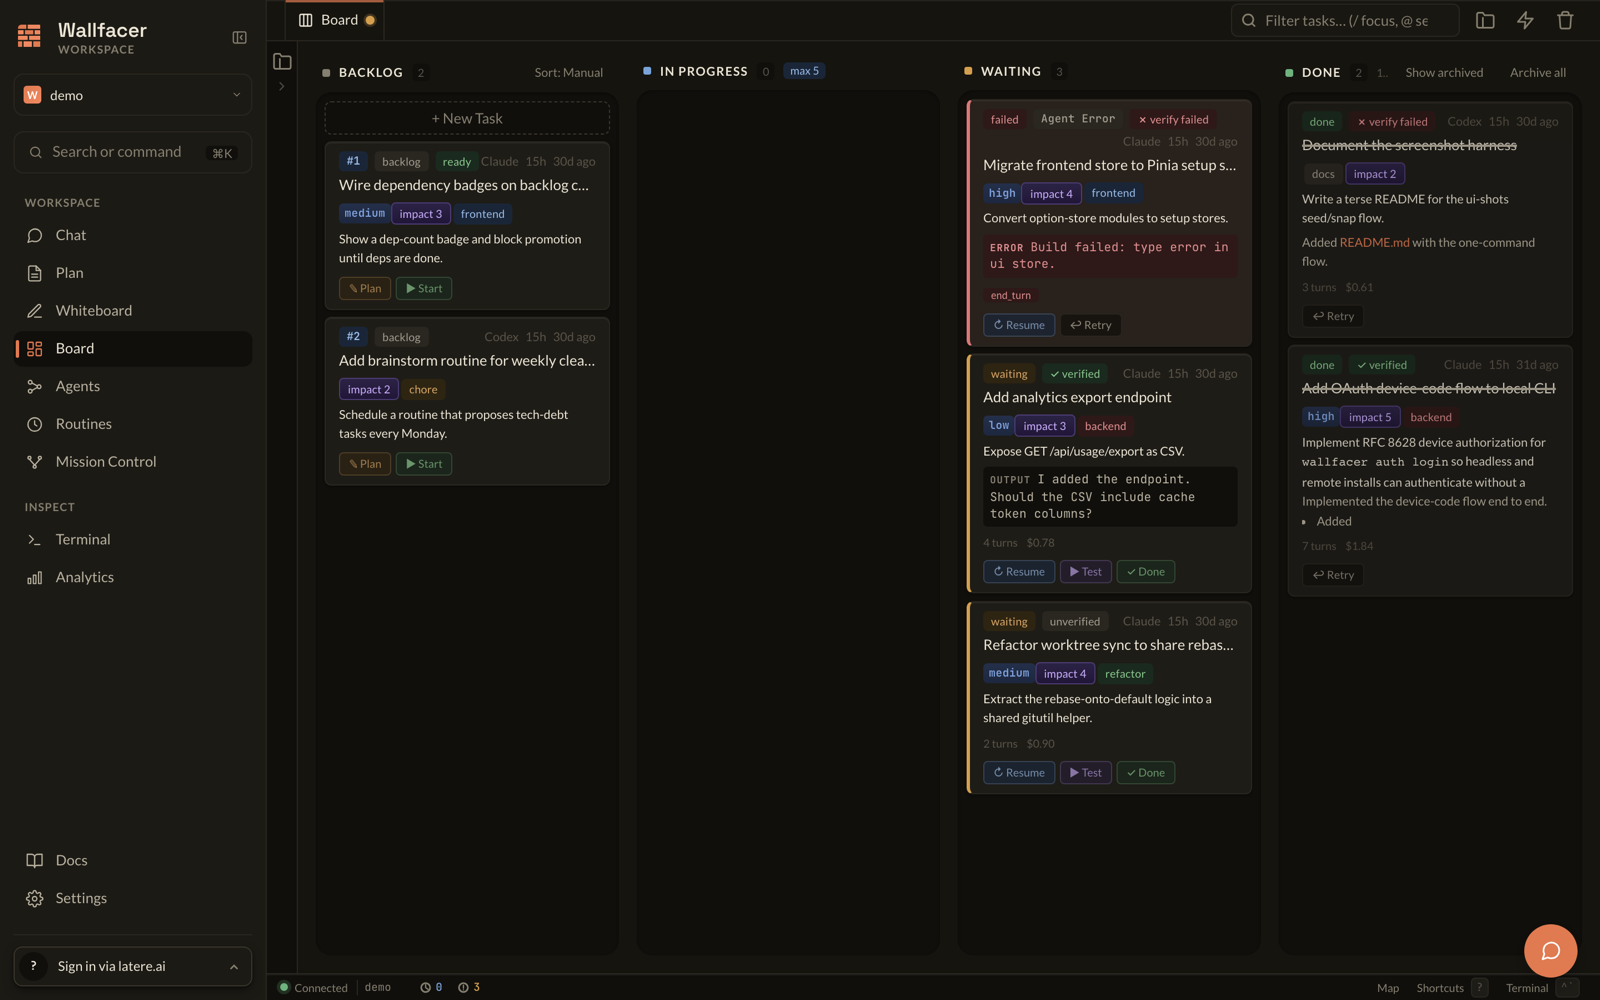
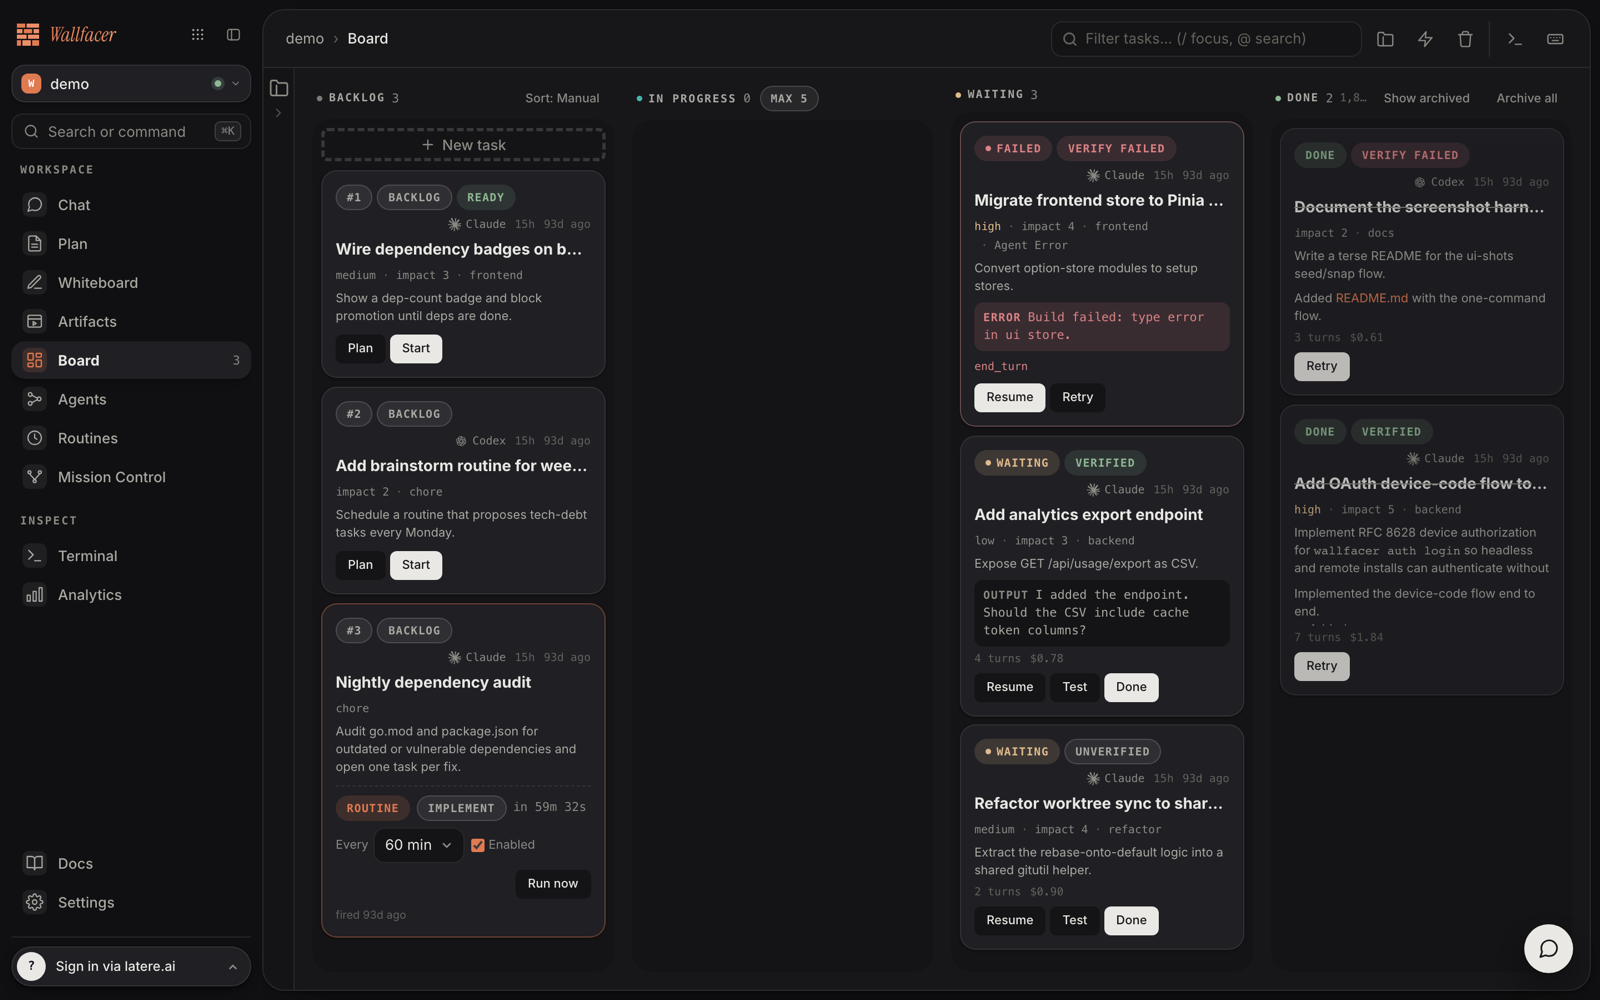
frontend: regenerate every screenshot from one seed in both themes

diff --git a/frontend/scripts/ui-shots/README.md b/frontend/scripts/ui-shots/README.md
@@ -59,9 +59,11 @@ node snap.mjs --base http://localhost:5173 --only board,palette,settings # subse
 node snap.mjs --list                                                     # surface names
 ```
 
-Surfaces: `board`, `palette`, `task-detail`, `settings`, `analytics`,
-`plan`, `routines`, `agents`, `flows`, `docs`. Prints JSON
-`[{name, file, errors}]` so callers can detect page errors.
+Surfaces: `board`, `switcher`, `palette`, `picker`, `terminal`, `explorer`,
+`task-detail`, `settings`, `analytics`, `overview-spec`, `oversight`, `plan`,
+`chat`, `routines`, `agents`, `flows`, `mission`, `whiteboard`, `docs`,
+`artifacts`. Prints JSON `[{name, file, errors}]` so callers can detect page
+errors.
 
 Works against any local-mode origin: the embedded SPA on the booted server
 (`:8099`), the golden UI (`:8092`), or the Vite dev server (`:5173`).
@@ -103,18 +105,35 @@ node checks.mjs --base http://localhost:8099 --only picker,board   # against an 
 node checks.mjs --list        # scene names
 ```
 
-Scenes: `board` (app shell + sidebar present), `switcher` (popover open doesn't
-drop the sidebar), `picker` (Select Workspace list is a full-width,
-non-overlapping, in-bounds column), plus `settings` / `plan` / `analytics` /
-`agents` / `flows` smoke (route renders, no uncaught error). Add a scene by
-appending to the `SCENES` table in `checks.mjs`. Playwright runs from the same
-throwaway `/tmp` sandbox as `snap.mjs` (never under `frontend/`, which would
-break the vite-ssg build).
+Scenes, one per console surface, each asserting the geometry its design
+promises (rail and topbar sizes, card radii, column widths, dialog widths,
+reading-column width) and the material (no `backdrop-filter`, meta text
+contrast in both themes): `board`, `shell`, `switcher`, `picker`, `no-glass`,
+`contrast`, `task-detail`, `chat`, `plan`, `settings`, `agents`, `palette`,
+`dock`, `analytics`, `routines`, `mission`, `whiteboard`, `artifacts`,
+`docs`, plus a `flows` smoke. Every scene runs in its own browser context so
+nothing one scene persists (a route, a popup, a dock layout) reaches the next.
+Add a scene by appending to the `SCENES` table in `checks.mjs`. Playwright runs
+from the same throwaway `/tmp` sandbox as `snap.mjs` (never under `frontend/`,
+which would break the vite-ssg build).
+
+The gate runs in CI as the `ui-test` job of `.github/workflows/frontend.yml`
+(`PW_WITH_DEPS=1 make ui-test`, which also installs Chromium's system libraries).
 
 ## Docs screenshots
 
 Guide images live in `docs/guide/images/` as a `foo.png` (light) + `foo-dark.png`
 (dark) pair. Reference only the light name in markdown: `![alt](images/foo.png)`.
 The docs renderer (`frontend/src/lib/markdown.ts`) emits both variants toggled by
-`[data-theme]`, served via the `/api/docs-asset/<category>/<path>` route. Downscale
-the 2x captures to a doc-friendly width first, e.g. `sips --resampleWidth 1600`.
+`[data-theme]`, served via the `/api/docs-asset/<category>/<path>` route.
+
+One command regenerates every committed screenshot (the guide pairs, the
+landing-page pairs under `frontend/public/static/`, and the README images under
+`assets/`) from the seed, in both themes, downscaled to 1600px wide:
+
+```bash
+./frontend/scripts/ui-shots/regen.sh
+```
+
+The seed gives each surface content: tasks in every state with traces and an
+oversight summary, a routine, an artifact, and the repo's own spec tree.
